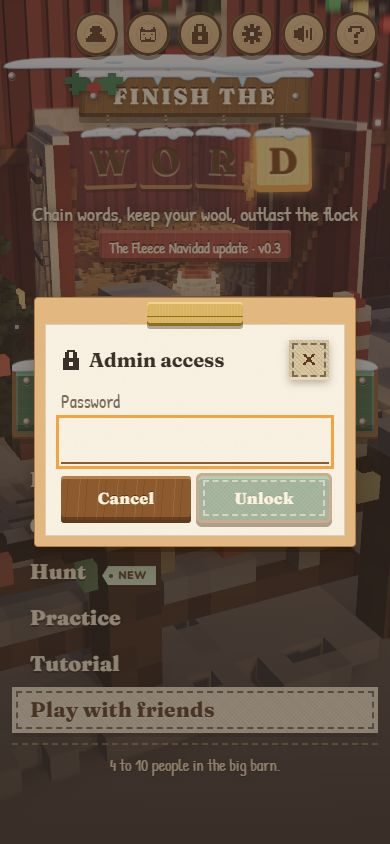
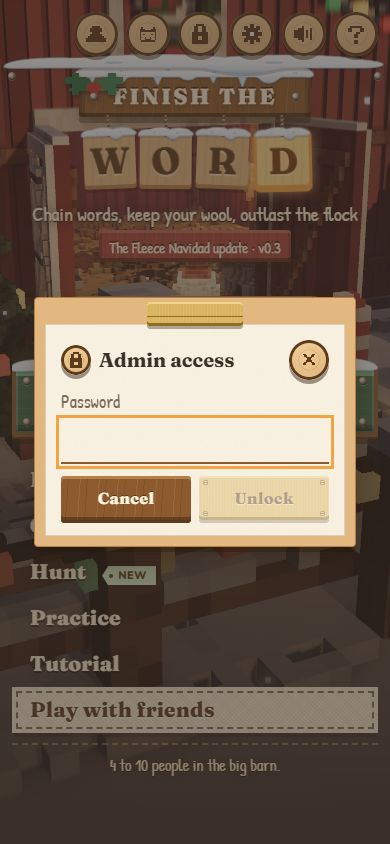
UI v6, U5 (first part): rooms, lobby, admin and close pegs
The rooms and lobby (classic components) are wrapped and dressed as planks, paper fields
and brass or wood buttons; the chat rules are paper on a light board. Close chips are
light pegs, the admin panel unlocks with a brass plate, and settings buttons keep their
full names. Contrast checks for ink on ice and coral chalk on slate.

diff --git a/src/skin/styles/skin.css b/src/skin/styles/skin.css
@@ -461,8 +461,8 @@
 .sk-chain-who { font-family: var(--skin-font-hand); font-size: 16px; color: var(--ink-soft); white-space: nowrap; }
 
 /* Icon chips (the corner controls) and paper sheets. */
-.sk-icon-chip { min-width: 40px; min-height: 40px; padding: 0 !important; justify-content: center; color: var(--wood-ink); box-shadow: inset 0 -3px 0 var(--paper-edge), 0 3px 8px rgba(40, 24, 10, 0.3); }
-.sk-icon-chip:hover { background: #FFF9EC; }
+/* A close or icon chip is a light peg (kit.css). */
+.sk-icon-chip { width: 40px; height: 40px; min-height: 40px; padding: 0 !important; outline: none; justify-content: center; }
 .sk-sheet {
   display: flex; flex-direction: column; width: 100%; max-width: 32rem; max-height: 82vh; overflow: hidden;
   border-radius: 18px 18px 0 0; background: var(--paper); color: var(--ink); box-shadow: 0 0 0 3px var(--wood-dark), var(--shadow-warm);
@@ -890,3 +890,50 @@
   .sk-title-plank { margin-top: 4px; padding-top: 8px; padding-bottom: 6px; }
   .sk-menu-item:not(.sk-menu-primary) { min-height: 38px; padding-top: 3px; padding-bottom: 3px; }
 }
+
+/* ---------- Rooms and the lobby (classic components, V6 6.5): a panel of planks, paper fields, brass and wood buttons ---------- */
+.sk-rooms main { color: var(--button-text); font-family: var(--skin-font-body); }
+.sk-rooms main > header h1 {
+  flex: none; padding: 6px 18px; border-radius: 3px; font-family: var(--skin-font-display); font-weight: 800; color: var(--button-text);
+  background: var(--kit-grain), var(--wood-dark); text-shadow: 0 -2px 0 rgba(40, 24, 10, 0.75), 0 1px 0 rgba(255, 220, 170, 0.35);
+  box-shadow: inset 0 3px 0 rgba(255, 220, 170, 0.32), inset 0 -4px 0 rgba(40, 24, 10, 0.55), 0 6px 0 rgba(40, 24, 10, 0.35);
+}
+.sk-rooms section, .sk-rooms main > div[class*="border-wood"] {
+  border: 0; border-radius: 3px; background: var(--kit-grain), var(--wood-ink);
+  box-shadow: inset 0 2px 0 rgba(255, 220, 170, 0.22), inset 0 -3px 0 rgba(40, 24, 10, 0.55), 0 6px 0 rgba(40, 24, 10, 0.35), 0 10px 18px rgba(40, 24, 10, 0.25);
+}
+.sk-rooms h2 { font-family: var(--skin-font-hand); font-weight: 400; font-size: 18px; letter-spacing: 0.02em; text-transform: none; color: var(--glow); }
+.sk-rooms p, .sk-rooms [class*="text-white"] { color: #F3E3C3; }
+.sk-rooms input {
+  border: 0; border-bottom: 2px solid var(--ink-soft); border-radius: 0; color: var(--ink); background: var(--kit-paper-tex), var(--paper);
+  box-shadow: 2px 3px 0 rgba(40, 24, 10, 0.35); font-family: var(--skin-font-hand); font-size: 20px;
+}
+.sk-rooms input::placeholder { color: var(--ink-soft); }
+.sk-rooms button {
+  border-radius: 3px; color: var(--button-text); font-family: var(--skin-font-display); font-weight: 800;
+  background: var(--kit-grain), var(--wood-dark); box-shadow: inset 0 3px 0 var(--wood), inset 0 -3px 0 rgba(40, 24, 10, 0.4), 0 3px 0 rgba(20, 12, 6, 0.6);
+}
+.sk-rooms button:active:not(:disabled) { translate: 0 2px; }
+/* The main actions (create, join, start, the chosen visibility) are brass plates; leaving is brass on barn red. */
+.sk-rooms button[class*="bg-emerald"], .sk-rooms button[class*="bg-fuchsia"], .sk-rooms button[class*="bg-sky"], .sk-rooms button[aria-pressed="true"] {
+  color: var(--wood-ink); text-shadow: 0 1px 0 rgba(255, 240, 200, 0.6);
+  background: var(--brass); box-shadow: inset 0 2px 0 var(--brass-light), inset 0 -3px 0 var(--brass-dark), 0 3px 0 rgba(20, 12, 6, 0.6);
+}
+.sk-rooms button[class*="bg-red"] { color: var(--wood-ink); background: var(--brass); box-shadow: inset 0 2px 0 var(--brass-light), inset 0 -3px 0 var(--brass-dark), 0 0 0 3px var(--barn-paint), 0 4px 0 3px rgba(20, 12, 6, 0.5); }
+.sk-rooms li { border-radius: 0; color: var(--ink); background: var(--kit-paper-tex), var(--paper); box-shadow: 2px 3px 0 rgba(40, 24, 10, 0.35); }
+.sk-rooms li [class*="text-white"], .sk-rooms li p { color: var(--ink-soft); }
+.sk-rooms [role="status"], .sk-rooms [class*="bg-red-500"] { border: 0; border-radius: 0; color: var(--ink); background: var(--kit-paper-tex), var(--paper); box-shadow: 2px 3px 0 rgba(40, 24, 10, 0.35); }
+.sk-rooms span[class*="rounded-full"] {
+  border-radius: 0; color: var(--wood-ink); background: var(--glow); clip-path: polygon(6px 0, 100% 0, 100% 100%, 6px 100%, 0 50%); padding-left: 14px;
+}
+.sk-rooms [class*="text-amber-300"] { color: var(--glow); }
+/* The chat rules: a sheet of paper on a light board, not a navy card; the inline rules note is a pinned paper note. */
+.sk-rooms [role="alertdialog"] {
+  border: 10px solid var(--tile); border-radius: 3px; color: var(--ink); background: var(--kit-paper-tex), var(--paper);
+  box-shadow: 0 0 0 1px var(--wood), 0 6px 0 rgba(40, 24, 10, 0.35), 0 12px 24px rgba(40, 24, 10, 0.3);
+}
+.sk-rooms [role="alertdialog"] h2 { font-family: var(--skin-font-display); color: var(--wood-ink); }
+.sk-rooms [role="alertdialog"] p, .sk-rooms [role="alertdialog"] [class*="text-white"] { color: var(--ink); }
+.sk-rooms [role="alertdialog"] li { box-shadow: none; border-bottom: 1px solid rgba(59, 48, 40, 0.14); }
+.sk-rooms [role="note"] { border: 0; border-radius: 0; color: var(--ink); background: var(--kit-paper-tex), var(--paper); box-shadow: 2px 3px 0 rgba(40, 24, 10, 0.35); }
+.sk-rooms [role="note"] [class*="text-amber"], .sk-rooms [role="note"] [class*="text-white"] { color: var(--ink); }

diff --git a/src/skin/components/AdminPanel.tsx b/src/skin/components/AdminPanel.tsx
@@ -6,6 +6,7 @@ import { PhotoAvatar } from '../avatars/PhotoAvatar';
 import { pokeAvatar, setAvatar, useAvatar } from '../avatars/store';
 import { CloseIcon, LockIcon } from './Icons';
 import { Chip, ClothButton, PaperPanel, WoodButton } from './Materials';
+import { Brass } from '../kit';
 
 /**
  * The admin lock: a small paper dialog off the lock button by the avatar. One password, no username; the right one
@@ -39,7 +40,7 @@ export function AdminPanel({ onClose }: { onClose: () => void }) {
     <div className="fixed inset-0 z-[55] flex items-center justify-center p-4" style={{ background: 'color-mix(in srgb, var(--ink) 55%, transparent)' }} onClick={onClose}>
       <PaperPanel role="dialog" aria-modal="true" aria-label="Admin access" className="w-full max-w-xs p-4" onClick={(e) => e.stopPropagation()}>
         <div className="mb-2 flex items-center justify-between gap-2">
-          <h2 className="sk-display flex items-center gap-2 text-xl"><LockIcon size={20} /> Admin access</h2>
+          <h2 className="sk-display flex items-center gap-2 text-xl"><span className="kit-peg kit-peg--light kit-peg--sm" style={{ width: 30, height: 30, cursor: 'default' }}><LockIcon size={16} /></span> Admin access</h2>
           <Chip className="sk-icon-chip" onClick={onClose} aria-label="Close"><CloseIcon size={16} /></Chip>
         </div>
         {admin ? (
@@ -74,7 +75,7 @@ export function AdminPanel({ onClose }: { onClose: () => void }) {
             {error && <p id="admin-error" role="alert" className="sk-hand mt-1 text-base" style={{ color: 'var(--coral-dark)' }}>{error}</p>}
             <div className="mt-3 flex gap-2">
               <WoodButton type="button" onClick={onClose} className="sk-btn flex-1">Cancel</WoodButton>
-              <ClothButton type="submit" disabled={!password || busy} className="sk-btn flex-1">Unlock</ClothButton>
+              <Brass type="submit" disabled={!password || busy} className="flex-1">Unlock</Brass>
             </div>
           </form>
         )}

diff --git a/src/skin/styles/kit.css b/src/skin/styles/kit.css
@@ -246,7 +246,7 @@ button.sk-chip:active:not(:disabled), button.kit-patch:active:not(:disabled) { t
   background: var(--kit-grain), var(--cloth-dark);
   box-shadow: inset 0 3px 0 rgba(200, 240, 200, 0.3), inset 0 -4px 0 rgba(20, 30, 20, 0.45), 0 0 0 3px var(--wood-dark), 0 6px 0 3px rgba(40, 24, 10, 0.4);
 }
-.kit-peg, .sk-icon-btn {
+.kit-peg, .sk-icon-btn, .sk-icon-chip {
   display: grid; place-items: center; width: 44px; height: 44px; border-radius: 50%; color: var(--button-text); cursor: pointer;
   background: radial-gradient(circle at 50% 50%, transparent 0 34%, rgba(40, 24, 10, 0.18) 35% 37%, transparent 38% 54%, rgba(40, 24, 10, 0.16) 55% 57%, transparent 58%), radial-gradient(circle at 40% 35%, var(--wood) 0%, var(--wood-dark) 75%);
   box-shadow: inset 0 0 0 3px var(--wood-ink), inset 0 2px 0 4px rgba(255, 220, 170, 0.18), 0 4px 0 rgba(40, 24, 10, 0.45);
@@ -255,7 +255,7 @@ button.sk-chip:active:not(:disabled), button.kit-patch:active:not(:disabled) { t
 .kit-peg:hover, .sk-icon-btn:hover { filter: brightness(1.12); }
 .kit-peg:active, .sk-icon-btn:active { transform: translateY(2px); box-shadow: inset 0 0 0 3px var(--wood-ink), 0 2px 0 rgba(40, 24, 10, 0.45); }
 .kit-peg[aria-pressed="true"], .sk-icon-btn[aria-pressed="true"] { filter: brightness(0.85); }
-.kit-peg--light, .sk-home .sk-icon-btn { color: var(--wood-ink); background: radial-gradient(circle at 50% 50%, transparent 0 34%, rgba(40, 24, 10, 0.12) 35% 37%, transparent 38%), radial-gradient(circle at 40% 35%, #F0CC96 0%, var(--tile) 75%); }
+.kit-peg--light, .sk-home .sk-icon-btn, .sk-icon-chip { color: var(--wood-ink); background: radial-gradient(circle at 50% 50%, transparent 0 34%, rgba(40, 24, 10, 0.12) 35% 37%, transparent 38%), radial-gradient(circle at 40% 35%, #F0CC96 0%, var(--tile) 75%); }
 .kit-peg--sm { width: 36px; height: 36px; }
 .kit-peg[data-admin], .sk-icon-btn[data-admin] { color: var(--glow); box-shadow: inset 0 0 0 3px var(--wood-ink), 0 0 0 3px var(--amber), 0 4px 0 rgba(40, 24, 10, 0.45); }
 

diff --git a/src/skin/screens/PaintedSettings.tsx b/src/skin/screens/PaintedSettings.tsx
@@ -43,15 +43,15 @@ export function PaintedSettings({ onClose }: { onClose: () => void }) {
           <PanelRow label="Reduce motion"><Lever checked={s.reduceMotion} onChange={s.setReduceMotion} label="Reduce motion" /></PanelRow>
           <PanelRow label="Larger text"><Lever checked={s.largeText} onChange={s.setLargeText} label="Larger text" /></PanelRow>
           <PanelRow label="Tutorial">
-            <WoodButton className="kit-btn--sm flex items-center gap-2" disabled={!ready} onClick={() => s.startTour('menu')}><PlayIcon size={14} /> Replay</WoodButton>
+            <WoodButton className="kit-btn--sm flex items-center gap-2" aria-label="Replay tutorial" disabled={!ready} onClick={() => s.startTour('menu')}><PlayIcon size={14} /> Replay</WoodButton>
           </PanelRow>
           <PanelRow label="Gameplay tips">
-            <WoodButton className="kit-btn--sm flex items-center gap-2" onClick={() => { resetTips(); setTipsCleared(true); }}>
+            <WoodButton className="kit-btn--sm flex items-center gap-2" aria-label="Show gameplay tips again" onClick={() => { resetTips(); setTipsCleared(true); }}>
               {tipsCleared ? <><CheckIcon size={14} /> Reset</> : <><ResetIcon size={16} /> Show again</>}
             </WoodButton>
           </PanelRow>
           <PanelRow label="Credits and licenses">
-            <WoodButton className="kit-btn--sm" onClick={() => setCredits(true)}>Open</WoodButton>
+            <WoodButton className="kit-btn--sm" aria-label="Credits and licenses" onClick={() => setCredits(true)}>Open</WoodButton>
           </PanelRow>
         </Panel>
       </div>

diff --git a/src/skin/kit/__tests__/kitContrast.test.ts b/src/skin/kit/__tests__/kitContrast.test.ts
@@ -6,6 +6,9 @@ const tokens = readFileSync('src/skin/styles/tokens.css', 'utf8');
 const t = (name: string) => tokens.match(new RegExp(`--${name}: *(#[0-9A-Fa-f]{6})`))![1];
 
 describe('the farm kit keeps its text readable (V6 Part 4.11)', () => {
+  // Ice is rgba(217,238,248,0.78) over whatever is behind it; over the darkest wood it is no lighter than #B5C0BE.
+  it('ink on ice is at least 4.5:1, even over dark wood', () => expect(contrast(t('ink'), '#B5C0BE')).toBeGreaterThanOrEqual(4.5));
+  it('coral chalk on slate is at least 4.5:1', () => expect(contrast('#FFB6A8', t('slate'))).toBeGreaterThanOrEqual(4.5));
   it.each([
     ['ink', 'paper', 11],
     ['button-text', 'wood-dark', 4.5],

diff --git a/src/skin/PaintedApp.tsx b/src/skin/PaintedApp.tsx
@@ -68,8 +68,8 @@ export function PaintedApp() {
   const screen = dreaming ? <DreamScreen />
     : hunting ? <HuntScreen />
     : inGame ? <PaintedGame />
-    : inRoom ? <RoomScreen />
-    : lobbyOpen ? <Lobby />
+    : inRoom ? <div className="sk-rooms h-full"><RoomScreen /></div>
+    : lobbyOpen ? <div className="sk-rooms h-full"><Lobby /></div>
     : home;
   return <><JoinLink />{screen}{!dreaming && !hunting && !inGame && (inRoom || lobbyOpen) && <Garland />}</>;
 }
